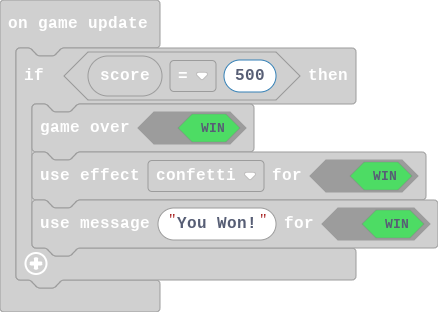
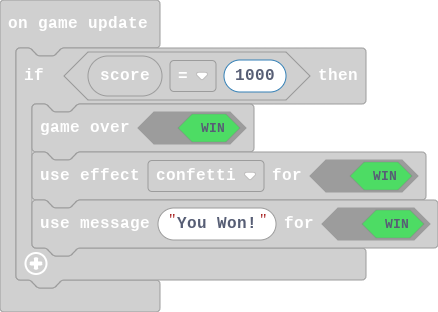
Update main.blocks, main.ts

Changed region(s): [[0.5936, 0.1442, 0.8607, 0.3462], [0.8014, 0.7788, 0.8607, 0.9231], [0.5342, 0.2019, 0.5639, 0.2596]]

diff --git a/main.ts b/main.ts
@@ -34,7 +34,7 @@ game.onUpdate(function () {
     }
 })
 game.onUpdate(function () {
-    if (info.score() == 500) {
+    if (info.score() == 1000) {
         game.gameOver(true)
         game.setGameOverEffect(true, effects.confetti)
         game.setGameOverMessage(true, "You Won!")
